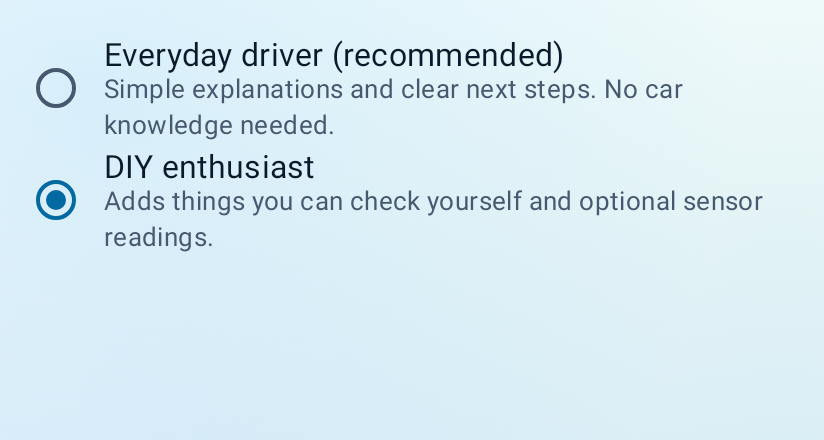
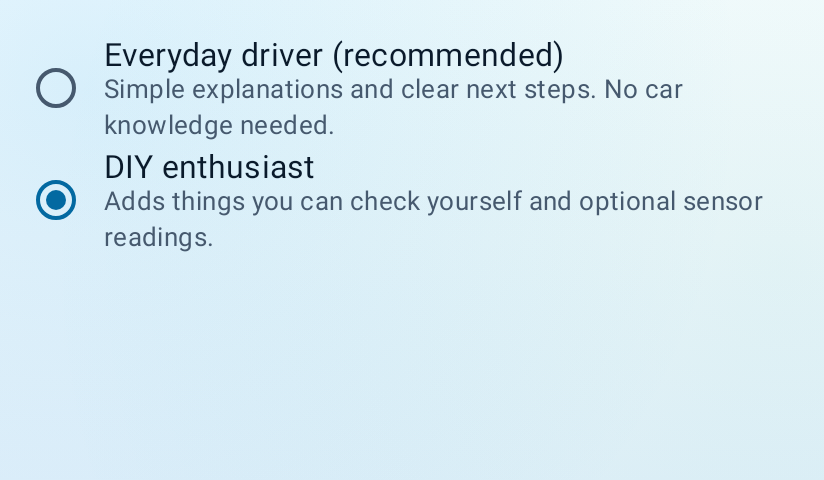
Phase 1A: review fixes (layout carry-over on corrupt DIY layout, docs, tests, screenshots)
Claude-Session: https://claude.ai/code/session_01CrrQxWvMRMsLJ48dtPymJm

Changed region(s): [[0.1214, 0.0886, 0.9405, 0.5614], [0.0303, 0.3545, 0.091, 0.5023], [0.0303, 0.1182, 0.091, 0.2659]]

diff --git a/app/src/test/java/com/aicarcompanion/app/data/local/SettingsMigrationTest.kt b/app/src/test/java/com/aicarcompanion/app/data/local/SettingsMigrationTest.kt
@@ -214,10 +214,29 @@ class SettingsMigrationTest {
         assertNull(kv.map["home_items_diy"])
     }
 
-    @Test fun `choosing advanced programmatically stores DIY`() {
-        val kv = MapKeyValueStore()
-        val store = PersistentSettingsStore(kv)
-        store.update { it.copy(explanationLevel = ExplanationLevel.ADVANCED.toSelectable()) }
+    @Test fun `legacy settings with advanced and a custom advanced layout write DIY keys and keep advanced keys`() {
+        val kv = legacy(
+            "assistant_name" to "Jarvis", "explanation_level" to "ADVANCED",
+            "home_layout_advanced" to "CUSTOMIZABLE", "home_items_advanced" to "CAR_HEALTH,ADAPTER,EXTRAS",
+        )
+        val s = PersistentSettingsStore(kv).settings.value
+        assertEquals(ExplanationLevel.DIY, s.explanationLevel)
         assertEquals("DIY", kv.map["explanation_level"])
+        assertEquals("CUSTOMIZABLE", kv.map["home_layout_diy"])
+        assertEquals("CAR_HEALTH,ADAPTER,EXTRAS", kv.map["home_items_diy"])
+        assertEquals("CUSTOMIZABLE", kv.map["home_layout_advanced"])
+        assertEquals("CAR_HEALTH,ADAPTER,EXTRAS", kv.map["home_items_advanced"])
+    }
+
+    @Test fun `a corrupt DIY layout gets the carried advanced layout persisted`() {
+        val kv = current(
+            "explanation_level" to "ADVANCED", "home_layout_diy" to "BOGUS",
+            "home_layout_advanced" to "CUSTOMIZABLE", "home_items_advanced" to "CAR_HEALTH,ADAPTER,EXTRAS",
+        )
+        val first = PersistentSettingsStore(kv).settings.value.dashboard.forLevel(ExplanationLevel.DIY)
+        assertEquals(HomeLayout.CUSTOMIZABLE, first.layout)
+        val second = PersistentSettingsStore(kv).settings.value.dashboard.forLevel(ExplanationLevel.DIY)
+        assertEquals(first, second)
+        assertEquals("CUSTOMIZABLE", kv.map["home_layout_diy"])
     }
 }

diff --git a/app/src/test/java/com/aicarcompanion/app/ui/AdvancedConnectionAppliesNowTest.kt b/app/src/test/java/com/aicarcompanion/app/ui/AdvancedConnectionAppliesNowTest.kt
@@ -1,0 +1,30 @@
+package com.aicarcompanion.app.ui
+
+import com.aicarcompanion.app.data.local.AppSettings
+import com.aicarcompanion.app.data.local.ExplanationLevel
+import com.aicarcompanion.app.data.local.InMemorySettingsStore
+import com.aicarcompanion.app.data.local.MapKeyValueStore
+import com.aicarcompanion.app.diagnostics.obd.ObdAdvancedControls
+import com.aicarcompanion.app.diagnostics.obd.ObdConfigStore
+import com.aicarcompanion.app.diagnostics.obd.ObdConnection
+import com.aicarcompanion.app.ui.adapter.AdvancedConnectionViewModel
+import org.junit.Assert.assertEquals
+import org.junit.Test
+import java.lang.reflect.Proxy
+
+/** Custom connection settings are Advanced-only (owner decision 2026-11-25); Advanced is internal. */
+class AdvancedConnectionAppliesNowTest {
+    private inline fun <reified T : Any> unused(): T =
+        Proxy.newProxyInstance(T::class.java.classLoader, arrayOf(T::class.java)) { _, _, _ -> error("not used") } as T
+
+    private fun applies(level: ExplanationLevel) = AdvancedConnectionViewModel(
+        ObdConfigStore(MapKeyValueStore()), unused<ObdAdvancedControls>(), unused<ObdConnection>(),
+        InMemorySettingsStore(AppSettings(explanationLevel = level)),
+    ).appliesNow
+
+    @Test fun `appliesNow is false at Everyday and DIY and true only at the internal Advanced level`() {
+        assertEquals(false, applies(ExplanationLevel.EVERYDAY))
+        assertEquals(false, applies(ExplanationLevel.DIY))
+        assertEquals(true, applies(ExplanationLevel.ADVANCED))
+    }
+}

diff --git a/app/src/main/java/com/aicarcompanion/app/diagnostics/obd/ObdManager.kt b/app/src/main/java/com/aicarcompanion/app/diagnostics/obd/ObdManager.kt
@@ -33,7 +33,7 @@ import java.io.IOException
 import java.time.Instant
 import java.util.UUID
 
-/** Connection controls used by the DIY and Advanced levels. */
+/** Connection controls used by DIY (and the internal Advanced level). */
 interface ObdAdvancedControls {
     val adapterInfo: StateFlow<AdapterInfo?>
     val stats: StateFlow<ConnectionStats>
@@ -80,7 +80,7 @@ class ObdManager(
     private val log: com.aicarcompanion.app.connectivity.ConnectionLog? = null,
     /** Overrides [RecoveryPolicy.RECHECK_DELAYS_MILLIS] (tests). */
     private val recheckDelaysOverride: List<Long>? = null,
-    /** True only at the DIY and Advanced knowledge levels. Off unless the container says otherwise. */
+    /** True at DIY (and the internal Advanced level). Off unless the container says otherwise. */
     private val clearCodesAllowed: () -> Boolean = { false },
     private val writeGate: VehicleWriteGate = VehicleWriteGate(now),
     /** Saves the "cleared by you" note in the vehicle's history. */

diff --git a/app/src/main/java/com/aicarcompanion/app/ui/settings/KnowledgeLevelPicker.kt b/app/src/main/java/com/aicarcompanion/app/ui/settings/KnowledgeLevelPicker.kt
@@ -31,7 +31,7 @@ fun KnowledgeLevelPicker(selected: ExplanationLevel, onSelect: (ExplanationLevel
                 verticalAlignment = Alignment.CenterVertically,
             ) {
                 RadioButton(selected = current == level, onClick = null)
-                Column(Modifier.padding(start = 12.dp)) {
+                Column(Modifier.weight(1f).padding(start = 12.dp)) {
                     Text(level.label + if (level == ExplanationLevel.EVERYDAY) " (recommended)" else "", style = MaterialTheme.typography.bodyLarge)
                     Text(level.description, style = MaterialTheme.typography.bodySmall, color = MaterialTheme.colorScheme.onSurfaceVariant)
                 }

diff --git a/app/src/main/java/com/aicarcompanion/app/diagnostics/obd/ObdTraffic.kt b/app/src/main/java/com/aicarcompanion/app/diagnostics/obd/ObdTraffic.kt
@@ -58,7 +58,7 @@ data class TrafficLogEntry(val atMillis: Long, val command: String, val response
 
 /**
  * Privacy-conscious, in-memory record of adapter traffic for troubleshooting.
- * - Off unless enabled at the Advanced level; never written to disk; cleared when turned off.
+ * - Off unless turned on from the Connection screen (DIY); never written to disk; cleared when turned off.
  * - Vehicle identifiers are redacted: responses to mode 09 information requests (VIN,
  *   calibration IDs, CVNs, ECU name) and anything shaped like a VIN.
  * - Adapter Bluetooth addresses and device names are never logged.

diff --git a/app/src/main/java/com/aicarcompanion/app/data/local/Settings.kt b/app/src/main/java/com/aicarcompanion/app/data/local/Settings.kt
@@ -179,7 +179,7 @@ object SettingsCodec {
     fun migrateLevel(store: KeyValueStore, migrated: AppSettings) {
         val values = mutableMapOf<String, Any?>(KEY_LEVEL to ExplanationLevel.DIY.name)
         val diy = ExplanationLevel.DIY
-        if (store.getString(keyLayout(diy)) == null) {
+        if (diy !in readDashboard(store).byLevel) {
             migrated.dashboard.byLevel[diy]?.let { choice ->
                 values[keyLayout(diy)] = choice.layout.name
                 values[keyItems(diy)] = choice.customItems?.joinToString(",") { it.name }

diff --git a/app/src/test/java/com/aicarcompanion/app/ui/screenshots/Phase1aScreenshotTest.kt b/app/src/test/java/com/aicarcompanion/app/ui/screenshots/Phase1aScreenshotTest.kt
@@ -43,7 +43,7 @@ class Phase1aScreenshotTest(private val shot: Shot) {
     data class Shot(val level: ExplanationLevel, val theme: ThemeMode, val fontScale: Float) {
         val fileName: String get() = "level-picker-${level.name.lowercase()}-selected_${theme.name.lowercase()}_font${(fontScale * 100).toInt()}.png"
         override fun toString() = fileName
-        val height: Int get() = if (fontScale > 1f) 420 else 220
+        val height: Int get() = if (fontScale > 1f) 560 else 240
     }
 
     companion object {

diff --git a/app/src/main/java/com/aicarcompanion/app/ui/adapter/AdapterScreen.kt b/app/src/main/java/com/aicarcompanion/app/ui/adapter/AdapterScreen.kt
@@ -84,7 +84,7 @@ fun AdapterScreen(
     ) {
         val level = viewModel.level
         item { StatusCard(state, setup, viewModel) }
-        if (level != ExplanationLevel.EVERYDAY) {
+        if (offersConnectionSettings(level)) {
             item { ConnectionDetailsCard(state, viewModel) }
             val tips = ConnectionTroubleshooter.tips(state, stats, info)
             if (tips.isNotEmpty()) item {

diff --git a/docs/ARCHITECTURE.md b/docs/ARCHITECTURE.md
@@ -245,13 +245,13 @@ descriptions and state descriptions; the status line is a polite live region.
 
 ## Beginner-first explanations
 
-`ExplanationLevel` = Everyday (default) / DIY / Advanced, stored in settings and passed in every
+`ExplanationLevel` = Everyday (default) / DIY selectable (Advanced is internal-only since Phase 1A), stored in settings and passed in every
 `AssistantRequest`. The reasoning is identical across levels; only rendering changes:
 - `DtcInfo` carries `simple`, `diyChecks` and `technical` text plus a plain `severity.advice`.
 - `ObdPid.friendlyName` and `minLevel` control which live readings beginners see, and live
   polling only requests readings visible at the current level.
 - Conversational overrides: "explain that more simply" (Everyday), "give me the technical
-  explanation" (Advanced), "tell me more" (one level up), "show me the sensor readings".
+  explanation" (the internal Advanced reply tier), "tell me more" (one level up; at DIY this reaches the Advanced reply tier), "show me the sensor readings".
 
 ## Smart Diagnostics (foundation only)
 
@@ -312,8 +312,8 @@ behavior, and the skill level must not change the home layout.
 | Level | Adapter screen |
 |---|---|
 | Everyday | One **Connect my adapter** button. `AdapterAutoSelector` picks the last-used adapter, else the only paired device that looks like an OBD-II adapter, and otherwise asks. It never guesses an unrelated device such as headphones. Protocol detection, timing and reconnection are automatic. MAC addresses, radio types and protocols are hidden. |
-| DIY | Full paired-device list with technical details. Also: **Reconnect**, **Reset adapter** (full `ATZ` re-initialization), and **Connection details** (transport, firmware, protocol, port voltage, requests/timeouts, average latency). Plain-language **Troubleshooting** comes from `ConnectionTroubleshooter`. |
-| Advanced | Everything above plus **Advanced connection settings** (`AdvancedConnectionScreen`). |
+| DIY | Full paired-device list with technical details. Also reaches **Advanced connection settings** (`AdvancedConnectionScreen`: connection test, communication log, read-only console; custom settings are switched off, see below). Also: **Reconnect**, **Reset adapter** (full `ATZ` re-initialization), and **Connection details** (transport, firmware, protocol, port voltage, requests/timeouts, average latency). Plain-language **Troubleshooting** comes from `ConnectionTroubleshooter`. |
+| Advanced (internal only) | Everything above; the only level where custom settings apply. Not selectable since Phase 1A. |
 
 `ObdConnectionConfig` (persisted by `ObdConfigStore` in its own `obd_settings` preferences file):
 
@@ -327,7 +327,7 @@ behavior, and the skill level must not change the home layout.
 | Compact responses (expert) | `ATS0`; the parser accepts both formats | Re-initializes |
 | Communication log | Redacted in-memory `TrafficLog` | Immediately |
 
-- **Advanced settings apply only at the Advanced level.** `ObdConnectionConfig.effectiveFor(level, stored)`
+- **Custom settings apply only at the Advanced level.** Advanced is internal-only since Phase 1A, so in practice every user gets `RECOMMENDED`. `ObdConnectionConfig.effectiveFor(level, stored)`
   returns `RECOMMENDED` for Everyday and DIY, so changing the level can never leave a beginner
   with a manual protocol or aggressive timing. The recommended config sends exactly the
   pre-4.1 init sequence (covered by a test).
@@ -359,14 +359,14 @@ behavior, and the skill level must not change the home layout.
 Two independent settings decide the home screen:
 
 - **Knowledge level** (`ExplanationLevel`) picks the dashboard kind (`DashboardKind`):
-  Everyday → `COMPANION`, DIY → `WORKSHOP`, Advanced → `TELEMETRY`. All three keep the voice orb;
+  Everyday → `COMPANION`, DIY → `WORKSHOP`, Advanced (internal only) → `TELEMETRY`. All three keep the voice orb;
   only its size changes (`orbScale`).
 - **Home layout** (`HomeLayout`): `EASY` (Penelope's arrangement) or `CUSTOMIZABLE` (the user's
   shortcuts and order). Stored **per knowledge level** in `AppSettings.dashboard`
   (`home_layout_<level>`, `home_items_<level>`), so changing level never erases a customization.
 
 `dashboard/Dashboard.kt` (pure Kotlin, unit-tested) holds the rules in `DashboardPlanner`:
-- **Defaults per level:** Everyday has 5 shortcuts. DIY adds Adapter. Advanced adds Adapter and Connection.
+- **Defaults per level:** Everyday has 5 shortcuts. DIY adds Adapter (and may add a Connection shortcut). Advanced (internal only) adds Adapter and Connection.
 - **Saved lists are cleaned up, not trusted:** duplicates, unknown names and items not offered at that level are dropped.
 - **Required shortcuts:** **Car Health** and **Extras** can be moved but never hidden, so a warning is never hidden by a customization and optional tools stay discoverable.
 - **Optional (Extras) tools** never appear on a default home screen.

diff --git a/docs/DEVICE_TESTING.md b/docs/DEVICE_TESTING.md
@@ -177,20 +177,14 @@ Change the level under **Settings → Detail level**.
    the port voltage at about 12.4 V engine off or about 14 V running) and **Troubleshooting** with
    the ignition off. **Reset adapter** should reconnect within a few seconds. **Reconnect**
    should appear after a failure.
-3. **Advanced:** **Advanced connection settings**:
+3. **DIY: Advanced connection settings** (custom settings are switched off at DIY; the screen says they are saved but not active):
    - **Run connection test** with the engine running: every step should be OK or Check.
-   - Protocol → *ISO 15765-4 CAN 11-bit 500k*. The adapter reconnects and "Car is answering on"
-     stays CAN 11-bit 500k.
-   - Protocol → *SAE J1850 PWM* with fallback on: the car should still connect (fallback). With
-     fallback off, expect no vehicle response. Then **Restore recommended defaults**.
-   - Adaptive timing → Off, adapter wait 200 ms. Live data should keep updating.
-   - Polling 0.25 s versus 3 s: the update speed changes visibly.
+   - Changing protocol, timing or polling is saved but does not change the connection (still automatic).
    - Communication log on: entries appear. Send `0902` in the console (after ticking the
      acknowledgement). The reply is shown on screen, but the log shows "[redacted: vehicle
      identifier]". **Copy log**, paste it somewhere private, and confirm no VIN appears.
    - Console: `04`, `ATSH7E0` and `ATZ` must all be refused.
-4. Switch back to **Everyday** with custom settings saved. The connection must return to
-   automatic, and the Advanced screen should say the settings are saved but not active.
+4. Everyday has no Connection screen entry and always connects automatically.
 
 ## Drive (Phase 3): checks on the phone (NOT RUN in automated tests)
 1. **Media without notification access:** play music in any app, open Drive, tap Pause, Play, Next, Previous. The music app should respond; Drive says "I asked your media app…". Note which apps ignore the keys.

diff --git a/docs/ADVANCED_FEATURES_INVENTORY.md b/docs/ADVANCED_FEATURES_INVENTORY.md
@@ -16,3 +16,9 @@ Since v0.9.0 only Everyday Driver and DIY Enthusiast are selectable. `Explanatio
 | Gemini ADVANCED detail line | `ai/PromptBuilder.kt` | Advanced | Not used (settings only yield Everyday or DIY); branch kept | Possibly merge into DIY |
 | Advanced default shortcuts and saved layout | `DashboardPlanner.defaults`, `home_layout_advanced` keys | Advanced | Saved Advanced layout copied to DIY once if DIY had none; Advanced keys left in storage | Review copied layouts |
 | Clear codes (Mode 04, confirmed gate) | `ClearCodesControl`, `VehicleWriteGate` | DIY and Advanced | DIY unchanged | None |
+| Technical details in rule-based replies (vehicle, code, sensor, connection) | `RuleBasedReasoningProvider.kt` ~:217, :311, :350, :457 | Advanced replies | Not reached from DIY | Decide what DIY gets |
+| "Tell me more" from DIY | `RuleBasedReasoningProvider.kt` :128 | Moved DIY to Advanced tier | Still moves to the Advanced reply tier | Review |
+| DIY sensor-list hint | `RuleBasedReasoningProvider.kt` :373 | Said "switch to a higher detail level" | "Ask me for a specific reading, or open Live Data to see more." | Review wording |
+| Advanced-only polling of trims, MAF, MAP | `ObdManager.kt` :672 | Advanced | Not polled for home/adapter card at DIY; Live Data workspace still offers them | Decide |
+| Plain navigation bar | `CarCompanionApp.kt` :270 | Advanced | Not shown | Optional |
+| Custom connection settings | `ObdConnectionConfig.effectiveFor` | Advanced only | Off for now (everyone uses recommended settings) | Owner decision pending |

diff --git a/docs/ROADMAP.md b/docs/ROADMAP.md
@@ -6,7 +6,7 @@
   push-to-talk voice (continuous conversation came in M3), read-only Bluetooth Classic OBD-II, per-vehicle history.
 
 - **M3 (Phase 3)** — Hands-free continuous conversation, natural voice settings (pitch fix,
-  voice/engine choice), Everyday/DIY/Advanced explanations, symptom conversations, Smart
+  voice/engine choice), Everyday/DIY explanations, symptom conversations, Smart
   Diagnostics / SmartFix / Mechanic Pro contracts.
 
 - **M4 (Phase 4)** — Penelope UI 2.0: design system, voice orb, floating navigation, redesigned
@@ -49,7 +49,7 @@ All of these passed the automated gate; none is device-verified yet (`docs/QUALI
 
 ## Next (recommended order)
 1. **Real-hardware validation** with the Panlong adapter on the 2011 BMW 528i: capture raw
-   ELM327 transcripts (Advanced → communication log → Copy log) and turn them into parser test fixtures.
+   ELM327 transcripts (DIY → Advanced connection settings → communication log → Copy log) and turn them into parser test fixtures.
 2. **OBD-II hardening** — foreground service for long sessions, read VIN via mode 09 PID 02
    and compare with the profile, freeze-frame (mode 02) with codes, adaptive polling.
 3. **Mechanic handoff report** — PDF/text via the share sheet: profile, codes with
